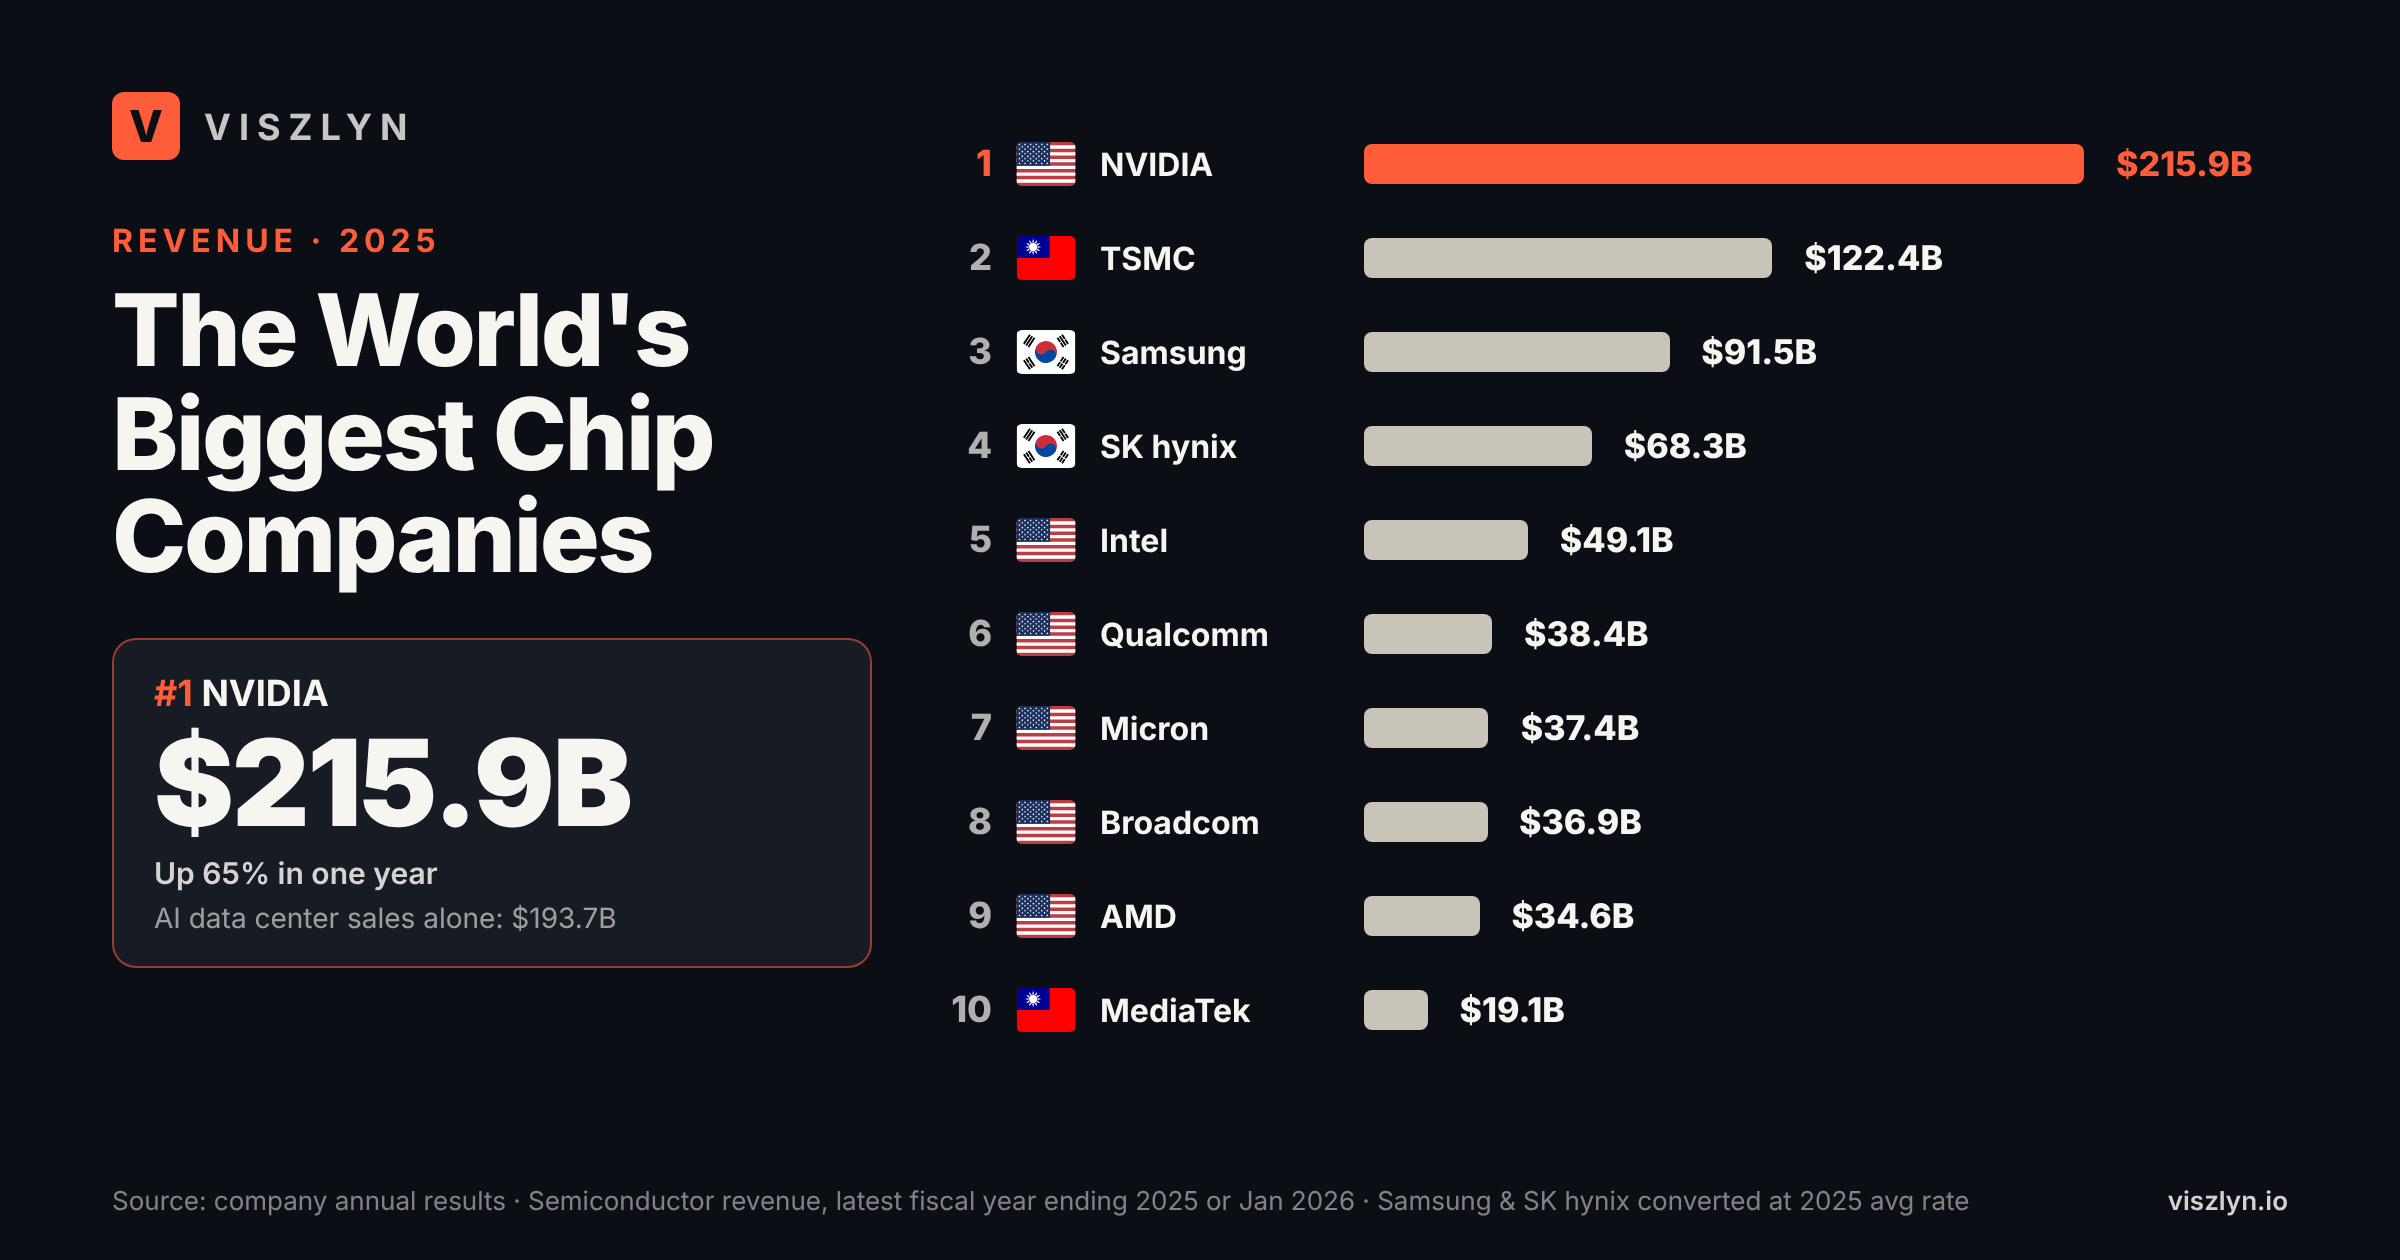
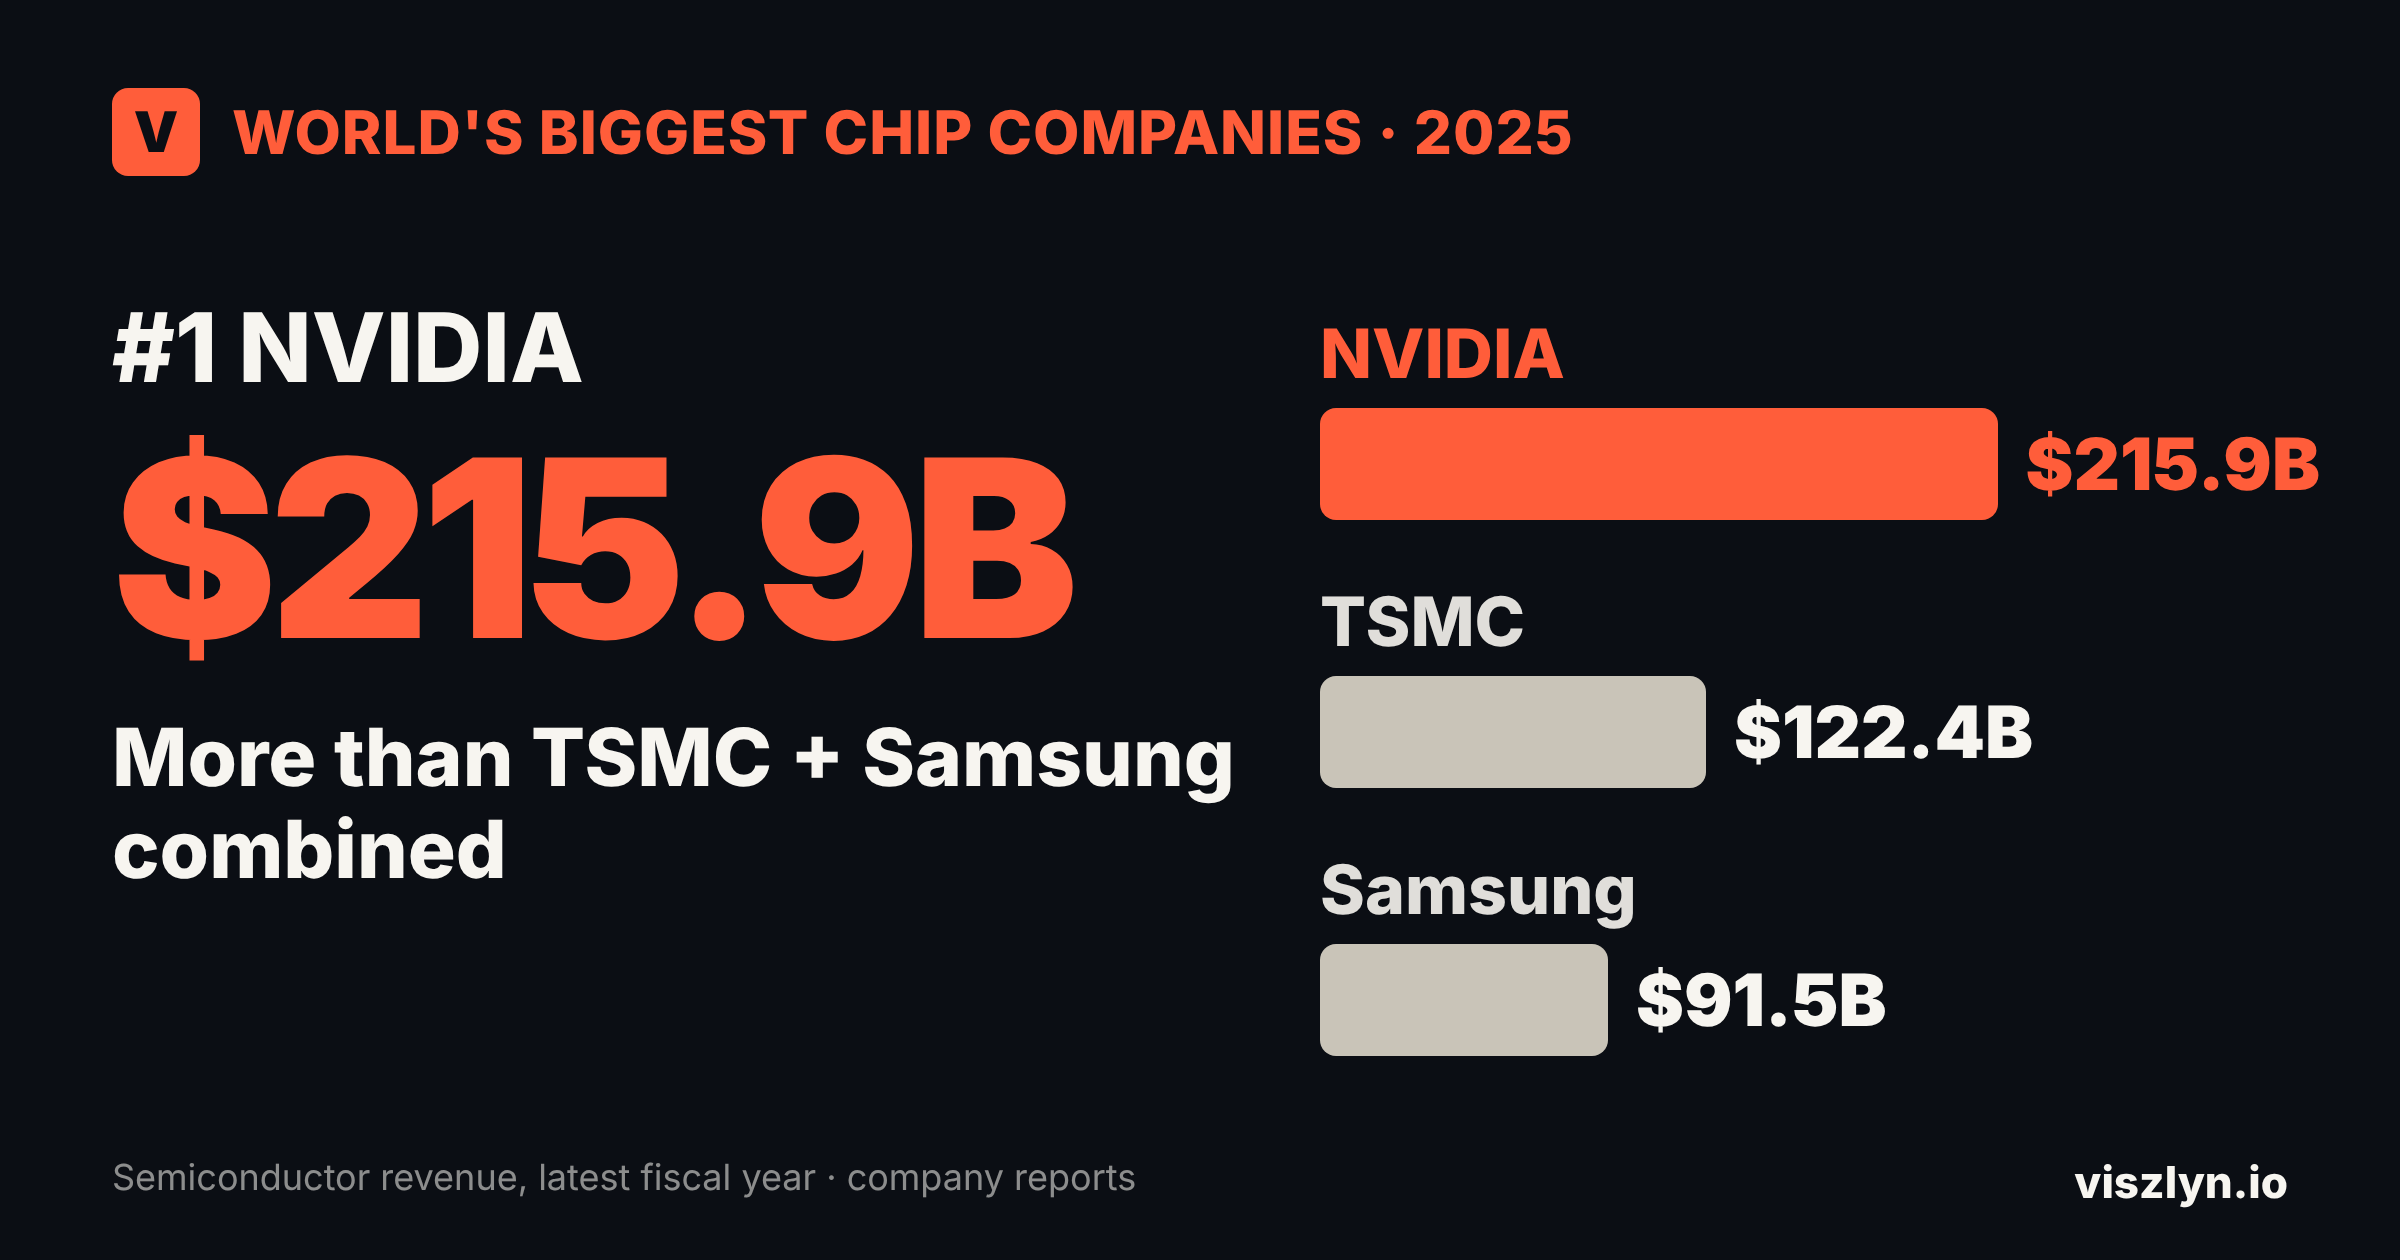
Chip companies: bold hero readable at feed size; add NVIDIA > TSMC + Samsung fact
Claude-Session: https://claude.ai/code/session_01Lx7Mnbsr2j6Zre36XCS9Kp

diff --git a/src/data/rankings/biggest-chip-companies-2026.ts b/src/data/rankings/biggest-chip-companies-2026.ts
@@ -160,7 +160,7 @@ export const biggestChipCompanies2026: RankingArticle = {
       category: "United States · Chip designer",
       revenueSources: "AI data center processors and networking, gaming GPUs, automotive",
       blurb: "NVIDIA's revenue was $215,938 million in its fiscal year ended January 25, 2026, up 65% from $130,497 million the year before.",
-      standoutFact: "Its data center business brought in $193.7 billion, about 90% of NVIDIA's total, and more than TSMC's entire revenue. NVIDIA's revenue is about 1.8 times TSMC's.",
+      standoutFact: "Its data center business brought in $193.7 billion, about 90% of NVIDIA's total, and more than TSMC's entire revenue. NVIDIA's revenue is about 1.8 times TSMC's, and more than TSMC and Samsung's chip division combined ($213.9 billion).",
       sourceTag: "NVIDIA fiscal 2026 results",
       wikipediaUrl: "https://en.wikipedia.org/wiki/Nvidia",
     },
